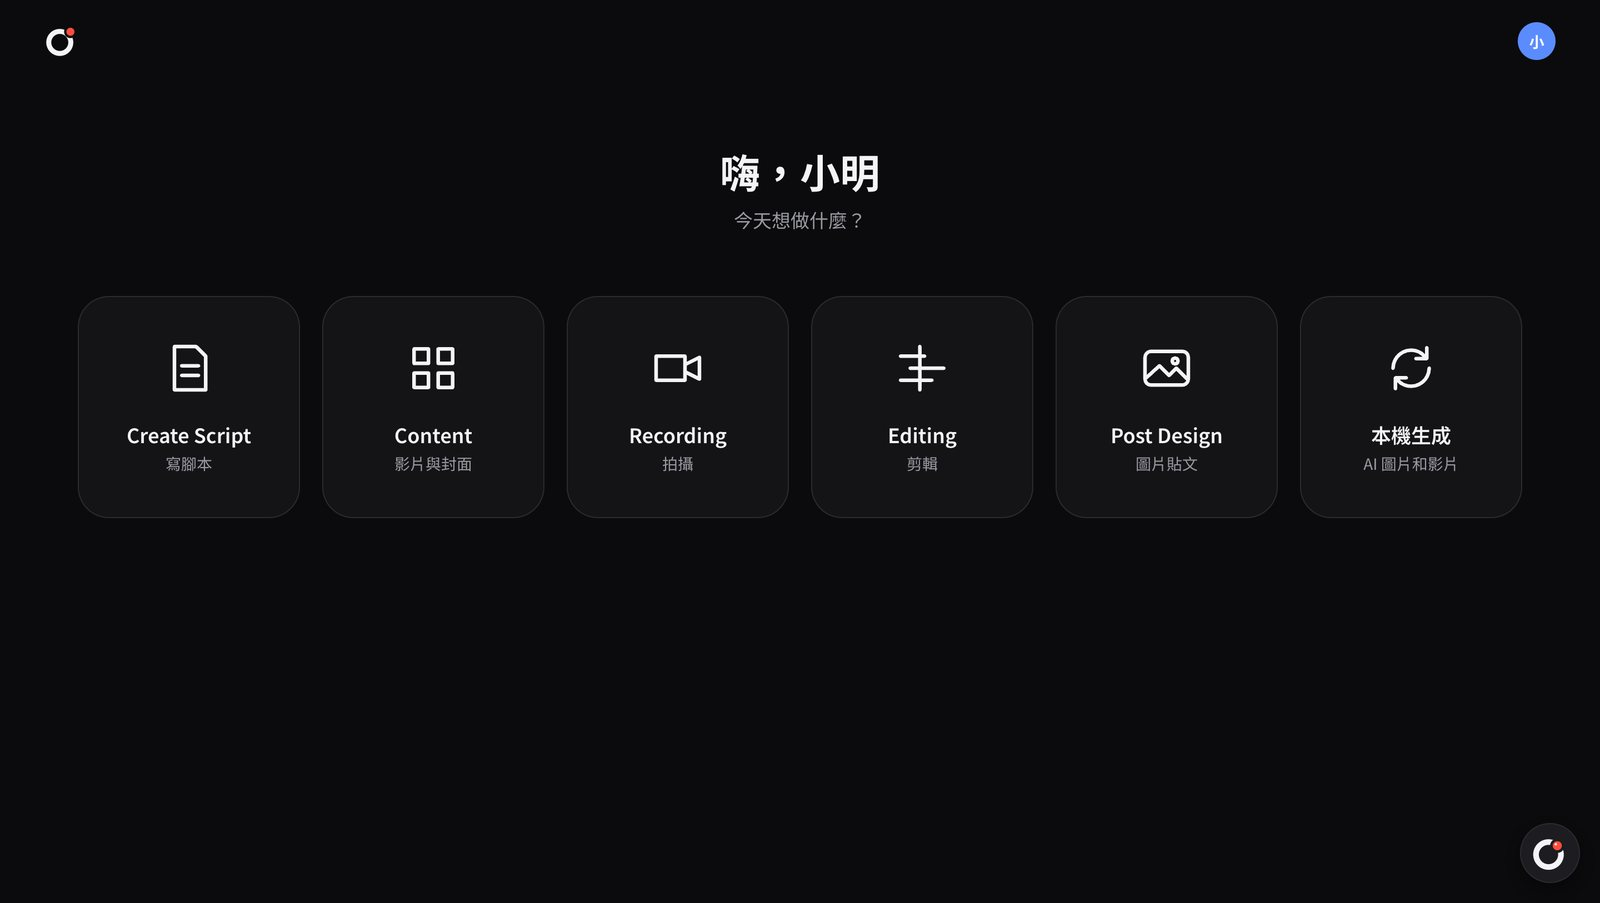
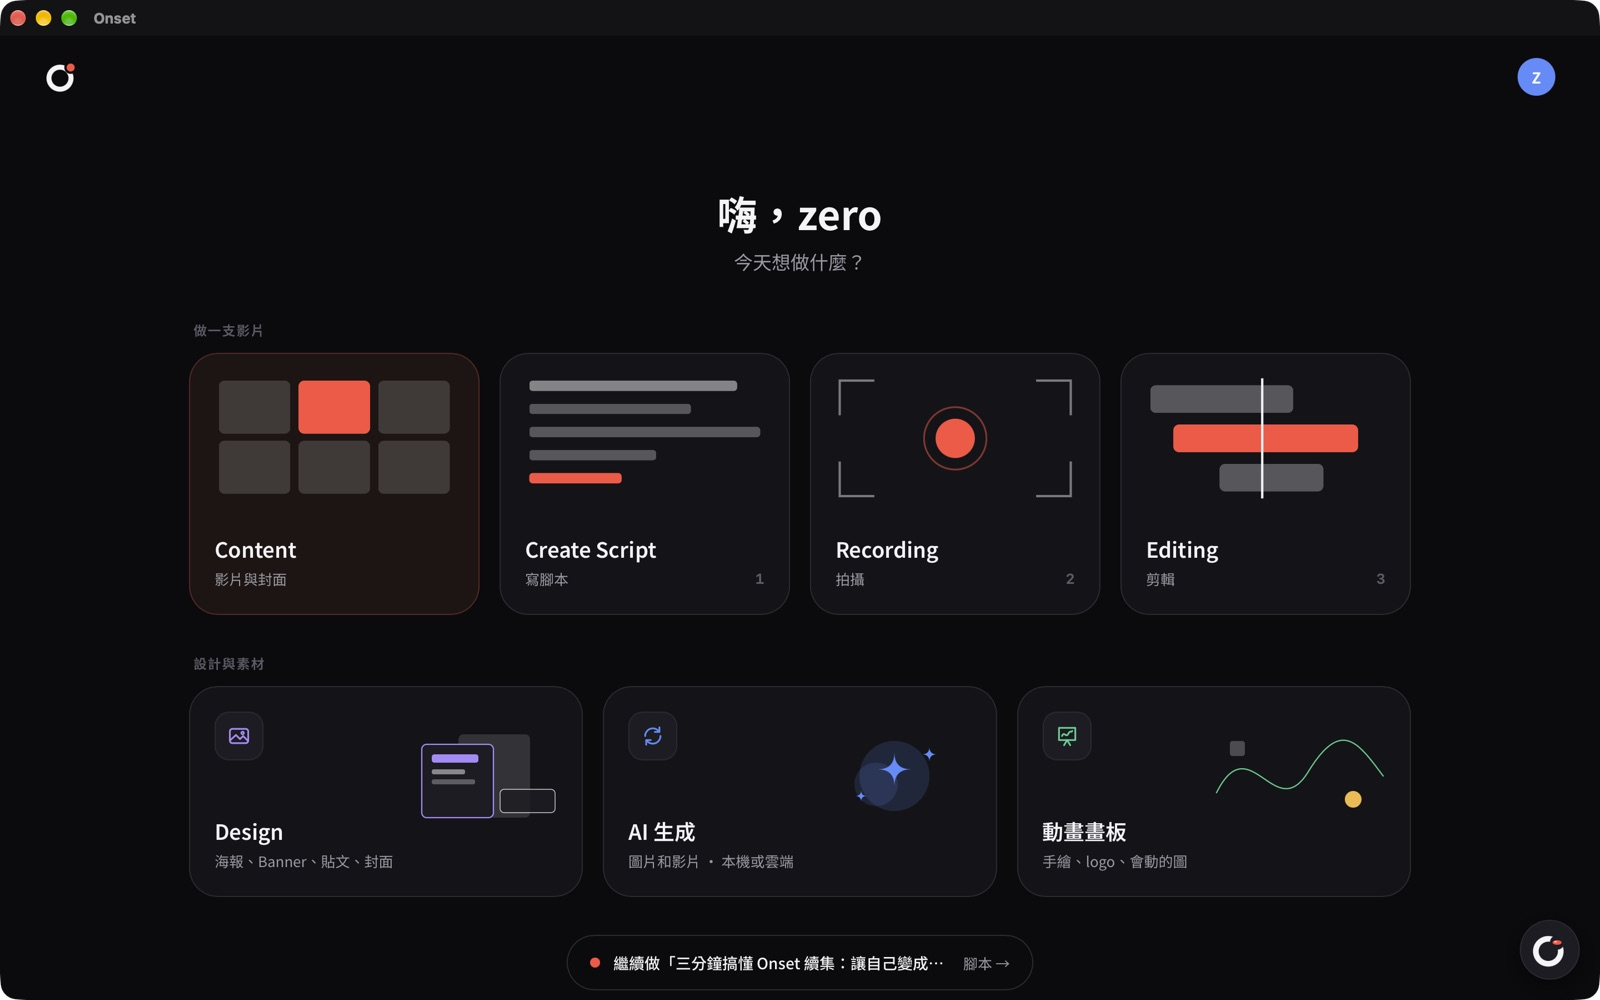
Home: new screenshot (Content first) and the bottom row's real heading 設計與素材 / Design and assets

diff --git a/index.html b/index.html
@@ -169,10 +169,9 @@ tr:last-child td{border-bottom:0}
 <p><strong>寫腳本 → 拍攝 → 剪輯 → 做封面和貼文 → 輸出</strong></p>
 <p>沒空拍？用「<strong>不拍，直接做</strong>」（第 5 章），從腳本直接做成影片。</p>
 <figure><img src="images/10-home.jpg" alt="首頁"><figcaption>首頁</figcaption></figure>
-<aside class="note"><p>截圖是舊版的首頁。新版的排法照下面的表，按鈕的名字一樣。</p></aside>
 <p><strong>上排「做一支影片」：</strong></p>
 <div class="tbl"><table><thead><tr><th>按鈕</th><th>做什麼</th></tr></thead><tbody><tr><td><strong>Content</strong> 影片與封面</td><td>放在最前面：你所有的影片、它們做到哪一步、封面和貼文文字、做續集</td></tr><tr><td><strong>1 Create Script</strong> 寫腳本</td><td>寫新腳本，或叫 AI 幫你寫</td></tr><tr><td><strong>2 Recording</strong> 拍攝</td><td>用 Mac 或 iPhone 拍，有提詞機</td></tr><tr><td><strong>3 Editing</strong> 剪輯</td><td>剪片、字幕、音樂、調色、輸出</td></tr></tbody></table></div>
-<p><strong>下排「素材與動畫」：</strong></p>
+<p><strong>下排「設計與素材」：</strong></p>
 <div class="tbl"><table><thead><tr><th>按鈕</th><th>做什麼</th></tr></thead><tbody><tr><td><strong>Design</strong> 設計</td><td>海報、Banner、貼文、封面（以前叫 Post Design）</td></tr><tr><td><strong>AI 生成</strong></td><td>用這台 Mac（本機 AI，免費）或雲端（雲端 AI，要花錢）生成圖片和影片（以前叫本機生成）</td></tr><tr><td><strong>動畫畫板</strong></td><td>自己的動畫：手繪、logo、會動的角色（第 9 章）</td></tr></tbody></table></div>
 <p>首頁還有一個「<strong>繼續做「…」</strong>」，一按就回到你最近在做的那支。</p>
 <p>左上角的 Onset 圖示可以隨時回到首頁。</p>

diff --git a/en/index.html b/en/index.html
@@ -172,7 +172,7 @@ tr:last-child td{border-bottom:0}
 <aside class="note"><p>The screenshot shows the old home screen. The new one is laid out as in the tables below; the buttons have the same names.</p></aside>
 <p><strong>Top row, "Make a video":</strong></p>
 <div class="tbl"><table><thead><tr><th>Button</th><th>What it's for</th></tr></thead><tbody><tr><td><strong>Content</strong></td><td>First in the row: all your videos, how far along each one is, covers and post captions, sequels</td></tr><tr><td><strong>1 Create Script</strong></td><td>Write a new script, or have the AI write it</td></tr><tr><td><strong>2 Recording</strong></td><td>Film with the Mac or an iPhone, with a teleprompter</td></tr><tr><td><strong>3 Editing</strong></td><td>Cutting, captions, music, colour, export</td></tr></tbody></table></div>
-<p><strong>Bottom row, "Assets and animation":</strong></p>
+<p><strong>Bottom row, "Design and assets":</strong></p>
 <div class="tbl"><table><thead><tr><th>Button</th><th>What it's for</th></tr></thead><tbody><tr><td><strong>Design</strong></td><td>Posters, banners, posts, covers (it used to be called Post Design)</td></tr><tr><td><strong>AI generation</strong></td><td>Make pictures and videos on this Mac (local AI, free) or in the cloud (cloud AI, costs money). It used to be called Local AI Studio</td></tr><tr><td><strong>Animation Board</strong></td><td>Animations of your own: drawings, logos, characters that move (chapter 9)</td></tr></tbody></table></div>
 <p>The home screen also has "<strong>Carry on with “…”</strong>", which takes you straight back to the video you were last working on.</p>
 <p>The Onset logo at the top left always takes you back home.</p>

diff --git a/02-home.md b/02-home.md
@@ -8,8 +8,6 @@
 
 ![首頁](images/10-home.jpg)
 
-> 截圖是舊版的首頁。新版的排法照下面的表，按鈕的名字一樣。
-
 **上排「做一支影片」：**
 
 | 按鈕 | 做什麼 |
@@ -19,7 +17,7 @@
 | **2 Recording** 拍攝 | 用 Mac 或 iPhone 拍，有提詞機 |
 | **3 Editing** 剪輯 | 剪片、字幕、音樂、調色、輸出 |
 
-**下排「素材與動畫」：**
+**下排「設計與素材」：**
 
 | 按鈕 | 做什麼 |
 |---|---|

diff --git a/en/02-home.md b/en/02-home.md
@@ -19,7 +19,7 @@ No time to film? Use "**No shoot, just make it**" (chapter 5) to turn a script s
 | **2 Recording** | Film with the Mac or an iPhone, with a teleprompter |
 | **3 Editing** | Cutting, captions, music, colour, export |
 
-**Bottom row, "Assets and animation":**
+**Bottom row, "Design and assets":**
 
 | Button | What it's for |
 |---|---|
